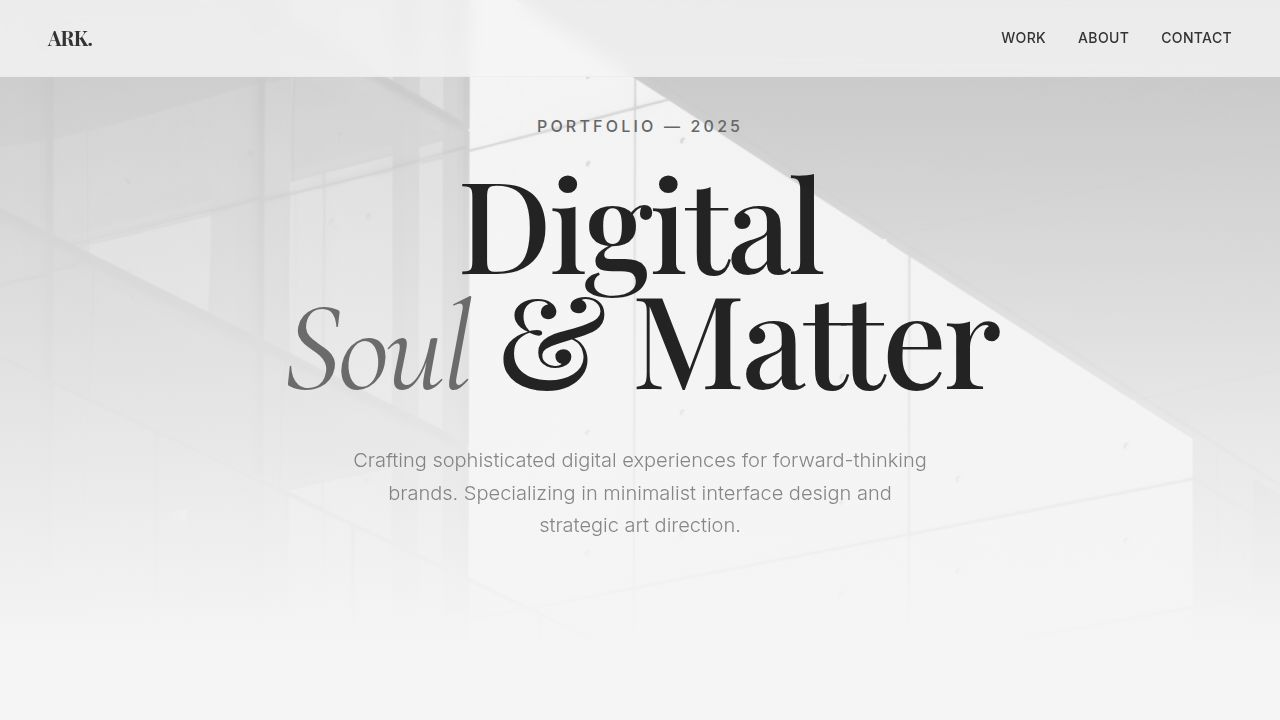
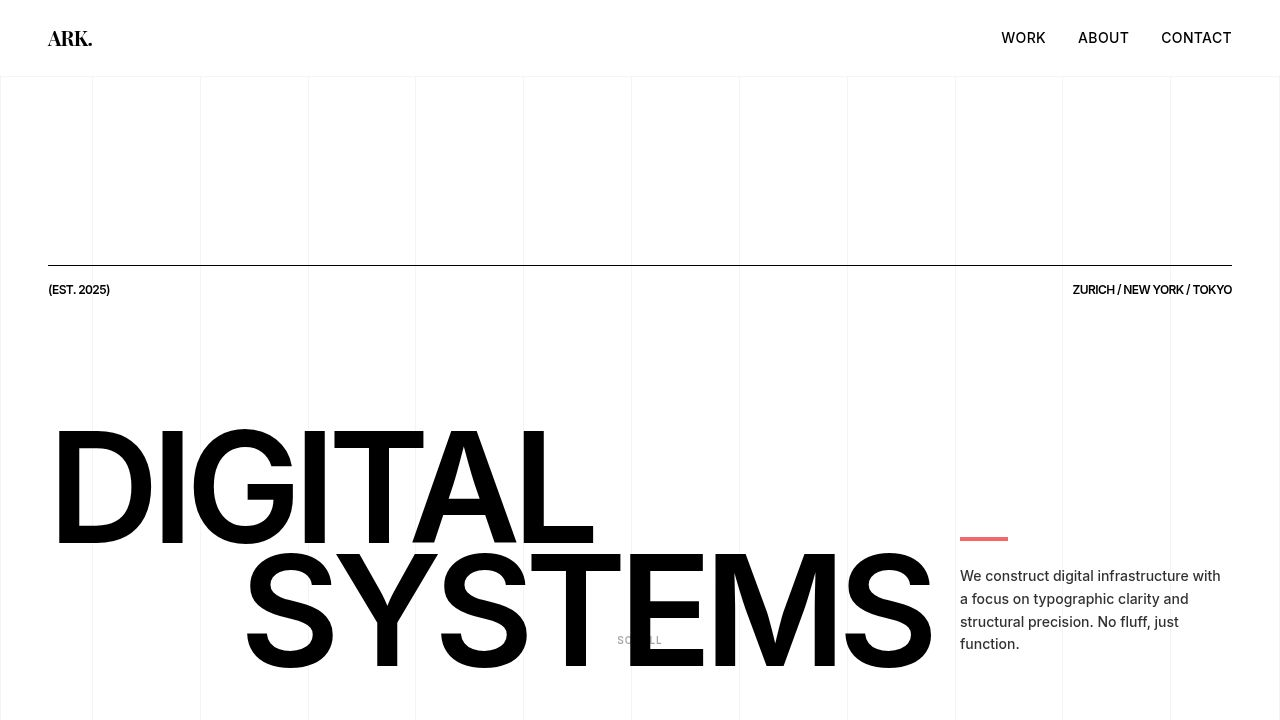
Update hero section to a modern Swiss style with bold typography
Redesigned the hero section with a Swiss Style aesthetic, featuring large sans-serif typography, a visible grid overlay, and an asymmetric layout.

Replit-Commit-Author: Agent
Replit-Commit-Session-Id: 46c577e4-1cb5-4638-92d5-414888b199a9
Replit-Commit-Checkpoint-Type: full_checkpoint
Replit-Commit-Event-Id: 9d561dd4-ff20-4f27-942b-8716ee7fbdce
Replit-Commit-Screenshot-Url: https://storage.googleapis.com/screenshot-production-us-central1/a2f3e2bb-3b28-4d49-89dc-c21924206b68/46c577e4-1cb5-4638-92d5-414888b199a9/KkXTSNe
Replit-Helium-Checkpoint-Created: true

diff --git a/client/src/components/hero.tsx b/client/src/components/hero.tsx
@@ -1,48 +1,93 @@
 import { motion } from "framer-motion";
-import heroBg from "@assets/generated_images/minimalist_architectural_hero_texture.png";
+import { ArrowDown } from "lucide-react";
 
 export function Hero() {
   return (
-    <section className="relative min-h-[90vh] flex items-center justify-center px-6 md:px-12 overflow-hidden bg-grain">
-      {/* Background Image with Overlay */}
-      <div className="absolute inset-0 z-0">
-        <img 
-          src={heroBg} 
-          alt="Abstract Architecture" 
-          className="w-full h-full object-cover opacity-20 grayscale"
-        />
-        <div className="absolute inset-0 bg-gradient-to-b from-background/0 via-background/50 to-background" />
+    <section className="relative min-h-screen flex flex-col justify-end pb-12 px-6 md:px-12 bg-background overflow-hidden pt-32">
+      {/* Grid Lines Background */}
+      <div className="absolute inset-0 z-0 pointer-events-none">
+        <div className="w-full h-full border-l border-r border-border/40 max-w-[1400px] mx-auto grid grid-cols-12 gap-4">
+          <div className="col-span-1 border-r border-border/40 h-full hidden md:block" />
+          <div className="col-span-1 border-r border-border/40 h-full hidden md:block" />
+          <div className="col-span-1 border-r border-border/40 h-full hidden md:block" />
+          <div className="col-span-1 border-r border-border/40 h-full hidden md:block" />
+          <div className="col-span-1 border-r border-border/40 h-full hidden md:block" />
+          <div className="col-span-1 border-r border-border/40 h-full hidden md:block" />
+          <div className="col-span-1 border-r border-border/40 h-full hidden md:block" />
+          <div className="col-span-1 border-r border-border/40 h-full hidden md:block" />
+          <div className="col-span-1 border-r border-border/40 h-full hidden md:block" />
+          <div className="col-span-1 border-r border-border/40 h-full hidden md:block" />
+          <div className="col-span-1 border-r border-border/40 h-full hidden md:block" />
+        </div>
       </div>
 
-      <div className="relative z-10 max-w-5xl mx-auto text-center">
-        <motion.span 
-          initial={{ opacity: 0, y: 20 }}
-          animate={{ opacity: 1, y: 0 }}
-          transition={{ duration: 0.6 }}
-          className="block text-sm md:text-base font-medium tracking-[0.2em] text-muted-foreground mb-6 uppercase"
-        >
-          Portfolio &mdash; 2025
-        </motion.span>
+      <div className="relative z-10 max-w-[1400px] mx-auto w-full grid grid-cols-1 lg:grid-cols-12 gap-8">
         
-        <motion.h1 
-          initial={{ opacity: 0, y: 30 }}
-          animate={{ opacity: 1, y: 0 }}
-          transition={{ duration: 0.8, delay: 0.2 }}
-          className="text-5xl md:text-7xl lg:text-9xl font-serif font-medium leading-[0.9] tracking-tight mb-8 text-primary"
-        >
-          Digital <br/> <i className="font-display font-light text-muted-foreground">Soul</i> & Matter
-        </motion.h1>
+        {/* Top Label */}
+        <div className="lg:col-span-12 mb-8 lg:mb-24 flex justify-between items-start border-t border-black pt-4">
+          <motion.span 
+            initial={{ opacity: 0 }}
+            animate={{ opacity: 1 }}
+            transition={{ duration: 0.8 }}
+            className="text-xs font-bold tracking-tighter uppercase"
+          >
+            (EST. 2025)
+          </motion.span>
+          <motion.span 
+            initial={{ opacity: 0 }}
+            animate={{ opacity: 1 }}
+            transition={{ duration: 0.8, delay: 0.1 }}
+            className="text-xs font-bold tracking-tighter uppercase text-right"
+          >
+            Zurich / New York / Tokyo
+          </motion.span>
+        </div>
 
-        <motion.p 
-          initial={{ opacity: 0, y: 30 }}
-          animate={{ opacity: 1, y: 0 }}
-          transition={{ duration: 0.8, delay: 0.4 }}
-          className="max-w-xl mx-auto text-lg md:text-xl text-muted-foreground font-light leading-relaxed"
-        >
-          Crafting sophisticated digital experiences for forward-thinking brands. 
-          Specializing in minimalist interface design and strategic art direction.
-        </motion.p>
+        {/* Main Headline */}
+        <div className="lg:col-span-9">
+          <motion.h1 
+            initial={{ opacity: 0, y: 100 }}
+            animate={{ opacity: 1, y: 0 }}
+            transition={{ duration: 0.8, ease: [0.16, 1, 0.3, 1] }}
+            className="text-[12vw] leading-[0.8] font-sans font-bold tracking-tighter text-black mix-blend-multiply"
+          >
+            DIGITAL
+          </motion.h1>
+          <motion.h1 
+            initial={{ opacity: 0, y: 100 }}
+            animate={{ opacity: 1, y: 0 }}
+            transition={{ duration: 0.8, delay: 0.1, ease: [0.16, 1, 0.3, 1] }}
+            className="text-[12vw] leading-[0.8] font-sans font-bold tracking-tighter text-black mix-blend-multiply ml-[10vw] lg:ml-[15vw]"
+          >
+            SYSTEMS
+          </motion.h1>
+        </div>
+
+        {/* Introduction Text */}
+        <div className="lg:col-span-3 flex flex-col justify-end mb-4">
+           <motion.div
+            initial={{ opacity: 0 }}
+            animate={{ opacity: 1 }}
+            transition={{ duration: 1, delay: 0.4 }}
+           >
+             <div className="w-12 h-1 bg-destructive mb-6" /> {/* Swiss Red Accent */}
+             <p className="text-sm font-medium leading-relaxed text-black max-w-[280px]">
+               We construct digital infrastructure with a focus on typographic clarity and structural precision. No fluff, just function.
+             </p>
+           </motion.div>
+        </div>
       </div>
+
+      {/* Scroll Indicator */}
+      <motion.div 
+        initial={{ opacity: 0 }}
+        animate={{ opacity: 1 }}
+        transition={{ duration: 1, delay: 0.8 }}
+        className="absolute bottom-12 left-1/2 -translate-x-1/2 flex flex-col items-center gap-2"
+      >
+        <span className="text-[10px] uppercase font-bold tracking-widest">Scroll</span>
+        <ArrowDown className="w-4 h-4 animate-bounce" />
+      </motion.div>
     </section>
   );
 }
